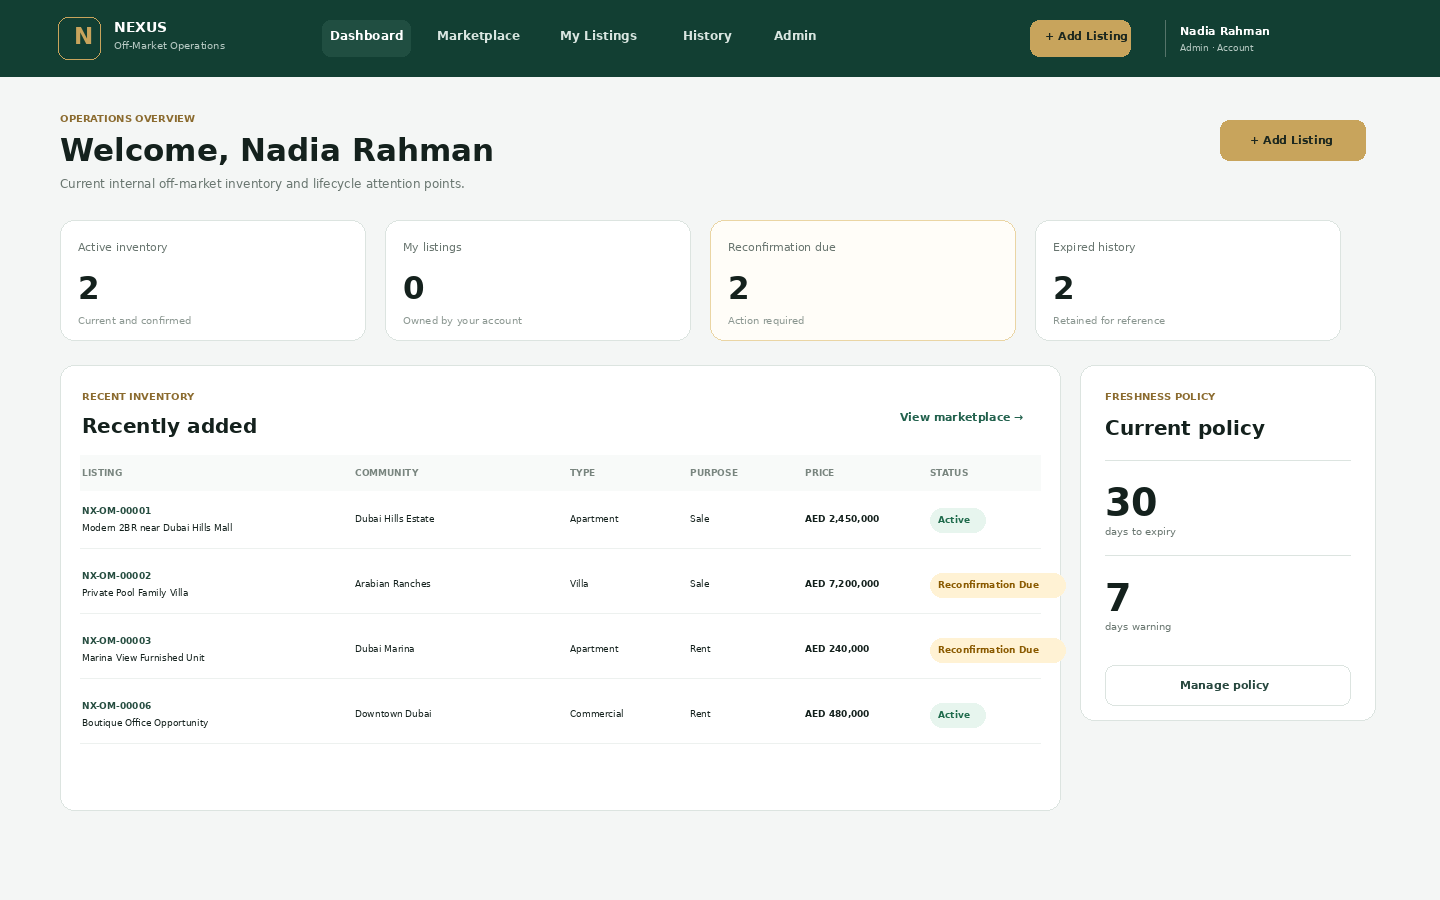
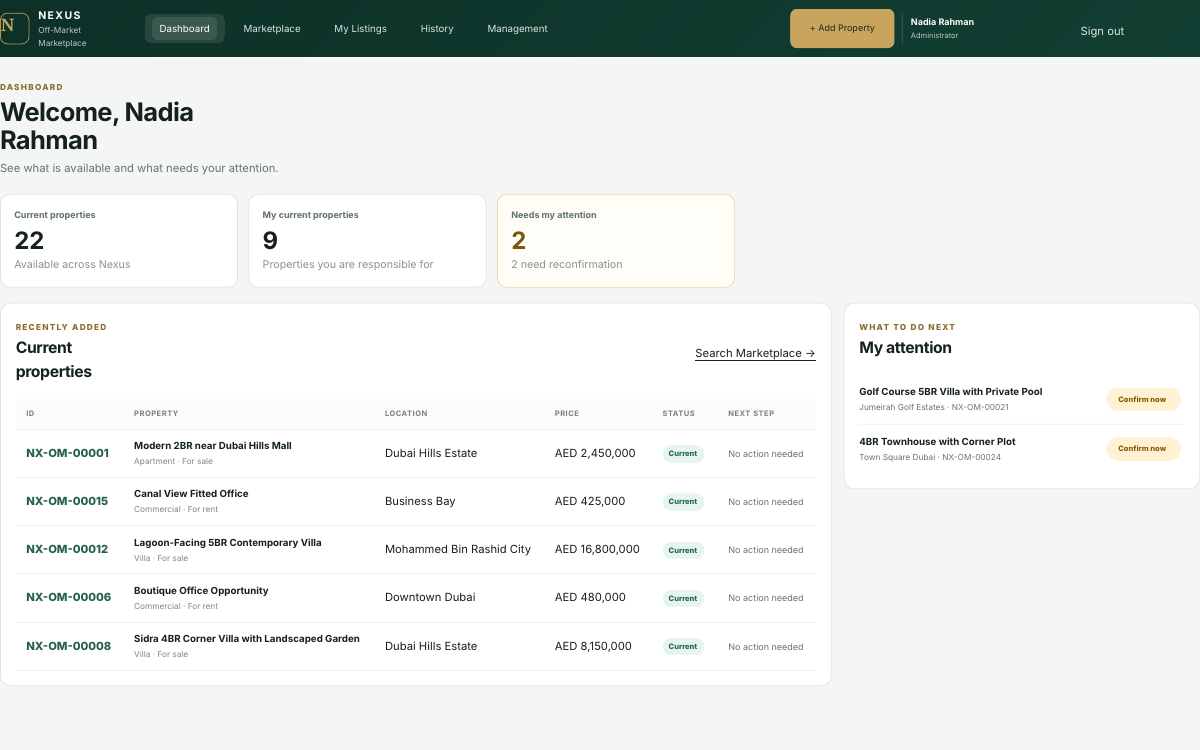
Present Nexus Properties as completed portfolio project

diff --git a/app/templates/projects/nexus_properties.html b/app/templates/projects/nexus_properties.html
@@ -7,11 +7,12 @@
       <p class="eyebrow">REAL ESTATE OPERATIONS SYSTEM</p>
       <h1>Nexus Properties</h1>
       <h2>Internal Off-Market Property Marketplace</h2>
-      <p class="page-lead">A custom web application concept for a real estate team to add, find, update, reconfirm, and manage private off-market property listings.</p>
+      <p class="page-lead">A completed custom web application that centralizes private off-market property inventory, search, listing ownership, freshness checks, reconfirmation, status history, and management controls.</p>
       <div class="case-meta">
-        <div><small>TYPE</small><strong>Portfolio case study</strong></div>
+        <div><small>TYPE</small><strong>Completed portfolio project</strong></div>
         <div><small>FOCUS</small><strong>Internal listing operations</strong></div>
         <div><small>BUILD</small><strong>Custom Flask web application</strong></div>
+        <div><small>ROLE</small><strong>Key Castro · Developer</strong></div>
       </div>
     </div>
     <button class="case-cover reveal delay-1" type="button" data-lightbox="{{ url_for('static', filename='images/projects/nexus-dashboard.png') }}" data-caption="Nexus Properties — dashboard preview">
@@ -22,7 +23,7 @@
 </section>
 
 <section class="case-note">
-  <div class="container reveal"><strong>Project note</strong><p>This is a portfolio implementation inspired by a public Nexus project brief. It is not presented as an official deployed Nexus system or as proof that Nexus approved this custom build.</p></div>
+  <div class="container reveal"><strong>Project note</strong><p>A completed custom real estate system developed by Key Castro as a portfolio implementation based on real-world property brokerage workflow requirements. It demonstrates the working system I built; it is not presented as an official Nexus deployment or as evidence that Nexus hired, paid, or approved this implementation.</p></div>
 </section>
 
 <nav class="case-jump" aria-label="Case study sections">
@@ -46,23 +47,23 @@
 <section class="section" id="solution">
   <div class="container case-section">
     <div class="section-kicker reveal">03 · SOLUTION</div>
-    <div class="case-copy reveal delay-1"><h2>One custom application for the listing lifecycle.</h2><p>The portfolio build brings access, listing records, marketplace search, status, reconfirmation, expiry, history, and administration into one web application.</p><div class="solution-flow"><span>Private access</span><b>→</b><span>Add listing</span><b>→</b><span>Search</span><b>→</b><span>Update / reconfirm</span><b>→</b><span>Expire / history</span></div></div>
+    <div class="case-copy reveal delay-1"><h2>One custom application for the listing lifecycle.</h2><p>The completed build brings private access, listing records, marketplace search, ownership controls, configurable freshness rules, reconfirmation, automatic expiry, history, and management tools into one web application.</p><div class="solution-flow"><span>Private access</span><b>→</b><span>Add listing</span><b>→</b><span>Search</span><b>→</b><span>Update / reconfirm</span><b>→</b><span>Expire / history</span></div></div>
   </div>
 </section>
 
 <section class="section section-soft" id="features">
   <div class="container">
-    <div class="section-head reveal"><div><p class="eyebrow">04 · MAIN FEATURES</p><h2>What the portfolio build demonstrates.</h2></div></div>
+    <div class="section-head reveal"><div><p class="eyebrow">04 · MAIN FEATURES</p><h2>What I built into the working system.</h2></div></div>
     <div class="feature-grid">
       {% for title, text in [
-        ('Private team access','Protected access for internal users.'),
-        ('Operations dashboard','A quick view of inventory and items that need attention.'),
-        ('Listing management','Create, view, and update structured property records.'),
-        ('Marketplace search','Search, filters, sorting, and current listing results.'),
-        ('Status tracking','Track the stage and condition of each listing.'),
-        ('Freshness rules','Reconfirmation and automatic expiry behavior.'),
-        ('History','Keep status and activity history instead of losing context.'),
-        ('Administration','Manage users and selected system settings in the portfolio build.')
+        ('Private team access','Secure access-code sign-in for internal users.'),
+        ('Operations dashboard','Current inventory, personal responsibility, and attention queues.'),
+        ('Listing management','Create, view, edit, and manage structured property records.'),
+        ('Marketplace search','Search, practical filters, sorting, and current inventory results.'),
+        ('Status tracking','Current, reconfirmation, expired, unavailable, and historical states.'),
+        ('Freshness rules','Configurable reconfirmation windows and automatic expiry.'),
+        ('History','Status, reconfirmation, and activity history are preserved.'),
+        ('Management','Authorized users can manage team access and freshness settings.')
       ] %}
       <article class="feature-card reveal delay-{{ loop.index0 % 3 }}"><span>{{ '%02d'|format(loop.index) }}</span><h3>{{ title }}</h3><p>{{ text }}</p></article>
       {% endfor %}
@@ -85,19 +86,19 @@
 
 <section class="section section-soft" id="screens">
   <div class="container">
-    <div class="section-head reveal"><div><p class="eyebrow">06 · SCREENS</p><h2>See the local portfolio build.</h2></div><p class="section-summary">Click a screen to view it larger.</p></div>
+    <div class="section-head reveal"><div><p class="eyebrow">06 · SCREENS</p><h2>Screens from the working Nexus build.</h2></div><p class="section-summary">Working interface shown with demonstration property records. Click a screen to view it larger.</p></div>
     <div class="gallery-grid">
-      <button class="gallery-item gallery-main reveal" type="button" data-lightbox="{{ url_for('static', filename='images/projects/nexus-dashboard.png') }}" data-caption="Dashboard — inventory and freshness overview"><img src="{{ url_for('static', filename='images/projects/nexus-dashboard.png') }}" alt="Nexus dashboard preview"><span>Dashboard</span></button>
-      <button class="gallery-item reveal delay-1" type="button" data-lightbox="{{ url_for('static', filename='images/projects/nexus-marketplace.png') }}" data-caption="Marketplace — search, filters, and current inventory"><img src="{{ url_for('static', filename='images/projects/nexus-marketplace.png') }}" alt="Nexus marketplace preview"><span>Marketplace</span></button>
-      <button class="gallery-item reveal delay-2" type="button" data-lightbox="{{ url_for('static', filename='images/projects/nexus-detail.png') }}" data-caption="Listing detail — record details and lifecycle history"><img src="{{ url_for('static', filename='images/projects/nexus-detail.png') }}" alt="Nexus listing detail preview"><span>Listing detail</span></button>
+      <button class="gallery-item gallery-main reveal" type="button" data-lightbox="{{ url_for('static', filename='images/projects/nexus-dashboard.png') }}" data-caption="Dashboard — current inventory and attention queue"><img src="{{ url_for('static', filename='images/projects/nexus-dashboard.png') }}" alt="Nexus dashboard preview"><span>Dashboard</span></button>
+      <button class="gallery-item reveal delay-1" type="button" data-lightbox="{{ url_for('static', filename='images/projects/nexus-marketplace.png') }}" data-caption="Marketplace — property search and current inventory"><img src="{{ url_for('static', filename='images/projects/nexus-marketplace.png') }}" alt="Nexus marketplace preview"><span>Marketplace</span></button>
+      <button class="gallery-item reveal delay-2" type="button" data-lightbox="{{ url_for('static', filename='images/projects/nexus-detail.png') }}" data-caption="Listing detail — property information and freshness lifecycle"><img src="{{ url_for('static', filename='images/projects/nexus-detail.png') }}" alt="Nexus listing detail preview"><span>Listing detail</span></button>
     </div>
   </div>
 </section>
 
 <section class="section" id="build">
   <div class="container case-section">
-    <div class="section-kicker reveal">07 · WHAT I BUILT</div>
-    <div class="case-copy reveal delay-1"><h2>A complete local custom web application.</h2><p>I built the application structure, access flow, dashboard, listing records, search, lifecycle actions, history, administration, testing, documentation, and Windows one-click local launcher.</p><div class="build-spec"><div><strong>Backend</strong><span>Python · Flask</span></div><div><strong>Data</strong><span>SQLAlchemy · SQLite</span></div><div><strong>Interface</strong><span>HTML · CSS · JavaScript</span></div><div><strong>Local workflow</strong><span>PowerShell launcher · health check · logs</span></div></div><div class="status-box"><small>PROJECT STATUS</small><strong>Working local portfolio implementation</strong><span>Not presented as an official Nexus production deployment.</span></div></div>
+    <div class="section-kicker reveal">07 · BUILD & TECHNOLOGY</div>
+    <div class="case-copy reveal delay-1"><h2>A complete working custom web application.</h2><p>I designed and built the application structure, secure access flow, database model, dashboard, property records, search experience, listing lifecycle, management controls, validation, testing, documentation, and one-click Windows launcher.</p><div class="build-spec"><div><strong>Backend</strong><span>Python · Flask · Flask-Login · Flask-WTF</span></div><div><strong>Data</strong><span>SQLAlchemy · SQLite · lifecycle history</span></div><div><strong>Interface</strong><span>HTML · CSS · JavaScript progressive enhancement</span></div><div><strong>Security</strong><span>Access-code hashing · CSRF protection · validation · authorization · security headers</span></div><div><strong>Local workflow</strong><span>PowerShell launcher · health check · logs · automated tests</span></div></div><div class="status-box"><small>PROJECT STATUS</small><strong>Completed working portfolio implementation</strong><span>Built and tested as a real custom system. Not presented as an official Nexus production deployment.</span></div></div>
   </div>
 </section>
 

diff --git a/app/templates/home.html b/app/templates/home.html
@@ -22,7 +22,7 @@
         <img src="{{ url_for('static', filename='images/projects/nexus-dashboard.png') }}" alt="Nexus Properties system dashboard preview">
       </div>
       <div class="hero-project-caption">
-        <div><small>FEATURED CASE STUDY</small><strong>Nexus Properties</strong><span>Internal Off-Market Property Marketplace</span></div>
+        <div><small>FEATURED COMPLETED PROJECT</small><strong>Nexus Properties</strong><span>Internal Off-Market Property Marketplace</span></div>
         <b aria-hidden="true">↗</b>
       </div>
     </a>
@@ -80,10 +80,10 @@
         <span>View larger</span>
       </button>
       <div class="featured-copy">
-        <div class="badge-row"><span>REAL ESTATE SYSTEM</span><span>PORTFOLIO CASE STUDY</span></div>
+        <div class="badge-row"><span>REAL ESTATE SYSTEM</span><span>COMPLETED PROJECT</span></div>
         <h3>Nexus Properties</h3>
         <p class="featured-subtitle">Internal Off-Market Property Marketplace</p>
-        <p>A custom system concept for an internal real estate team to add, search, update, reconfirm, and manage off-market property listings.</p>
+        <p>A completed custom web application for an internal real estate team to add, search, update, reconfirm, and manage off-market property inventory.</p>
         <ul class="clean-list">
           <li>Private team access</li>
           <li>Listing search and filters</li>

diff --git a/tests/test_site.py b/tests/test_site.py
@@ -16,7 +16,7 @@ class PortfolioSiteTests(unittest.TestCase):
         data = response.get_json()
         self.assertEqual(data["status"], "ok")
         self.assertEqual(data["app"], "Key Castro Portfolio")
-        self.assertEqual(data["version"], "2.0.0")
+        self.assertEqual(data["version"], "2.1.0")
 
     def test_main_pages_render(self):
         routes = ["/", "/about", "/services", "/projects", "/skills", "/experience", "/contact"]
@@ -26,11 +26,12 @@ class PortfolioSiteTests(unittest.TestCase):
                 self.assertEqual(response.status_code, 200)
                 self.assertIn(b"KEY CASTRO", response.data)
 
-    def test_nexus_case_study_has_clear_status_boundary(self):
+    def test_nexus_completed_project_has_clear_status_boundary(self):
         response = self.client.get("/projects/nexus-properties")
         self.assertEqual(response.status_code, 200)
         self.assertIn(b"Nexus Properties", response.data)
-        self.assertIn(b"not presented as an official deployed Nexus system", response.data)
+        self.assertIn(b"Completed working portfolio implementation", response.data)
+        self.assertIn(b"not presented as an official Nexus deployment", response.data)
 
     def test_unknown_project_uses_custom_404(self):
         response = self.client.get("/projects/not-real")

diff --git a/app/routes.py b/app/routes.py
@@ -30,10 +30,10 @@ PROJECTS = [
         "name": "Nexus Properties",
         "category": "Real Estate Operations System",
         "subtitle": "Internal Off-Market Property Marketplace",
-        "status": "Portfolio case study",
+        "status": "Completed project",
         "summary": (
-            "A private marketplace concept that helps a real estate team add, find, "
-            "update, reconfirm, and manage off-market property listings in one system."
+            "A completed custom internal marketplace for a real estate team to add, search, "
+            "update, reconfirm, and manage off-market property inventory in one system."
         ),
         "image": "images/projects/nexus-dashboard.png",
         "tags": ["Property listings", "Search & filters", "Status tracking", "Freshness rules"],
@@ -285,7 +285,7 @@ def health():
         status="ok",
         app=current_app.config.get("APP_NAME", "Key Castro Portfolio"),
         environment=current_app.config.get("ENVIRONMENT_LABEL", "unknown"),
-        version="2.0.0",
+        version="2.1.0",
     )
 
 

diff --git a/DELIVERY_REPORT.md b/DELIVERY_REPORT.md
@@ -1,43 +1,43 @@
-# KEY CASTRO WEBSITE — VERSION 2.0.0 DELIVERY REPORT
+# KEY CASTRO WEBSITE — VERSION 2.1.0 DELIVERY REPORT
 
 ## Release goal
 
-A complete public-launch redesign focused on clarity, trust, simple navigation, stronger project presentation, and a premium real-estate systems identity.
+Update the existing live portfolio so Nexus Properties is presented accurately as a **completed working portfolio project built by Key Castro**, while keeping a clear boundary that it is not an official Nexus production deployment or proof of a paid/approved client engagement.
 
-## Main changes
+## Nexus project update
 
-- Simplified top navigation to Work, Services, About, and Discuss a Project
-- Rebuilt homepage around a clear client-facing message and actual project proof
-- Replaced abstract technical language with shorter plain-English copy
-- Strengthened the Nexus Properties case study and screenshot presentation
-- Added click-to-enlarge project screenshots
-- Reworked Services, About, Skills, Experience, and Contact pages
-- Improved desktop, tablet, and mobile layout rules
-- Added stronger accessibility/focus states and reduced-motion support
-- Added page metadata, local no-index behavior, and `sitemap.xml`
-- Added production SMTP contact-form support through environment variables
-- Added production startup checks to prevent launch with missing public/contact configuration
-- Kept the Windows desktop launcher, health check, local port, logs, and one-click workflow compatible
+- Changed the public project status from concept/case-study wording to **Completed Project**.
+- Rewrote the homepage featured-work copy around the finished working system.
+- Expanded the Nexus case study with the business problem, actual working workflow, main features, technologies, security work, and Key Castro's developer role.
+- Added the current Nexus dashboard visual generated from the latest `1.4.2-clarity-refinement` source/UI and local project data.
+- Preserved honest relationship wording: completed development work, but no unsupported claim that Nexus hired, paid, approved, or deployed the implementation.
+- Updated portfolio/project documentation and automated assertions to the new positioning.
 
-## Preserved local behavior
+## Preserved website architecture
+
+No hosting or deployment architecture was changed:
 
 ```text
-Desktop icon
-→ hidden Flask server
-→ health check
-→ browser opens
-→ http://127.0.0.1:5050
+Official host: Render
+Official URL: https://keycastro.onrender.com
+Private source repo: keycastro/key-castro-website
+Public Render mirror: keycastro/key-castro-render-deploy
+Render auto-deploy: off
 ```
 
-The website remains a web application. The Desktop icon is only a local convenience launcher.
+The Windows local launcher, local port `5050`, contact form architecture, health endpoint, deployment workflow, and retired PythonAnywhere status remain unchanged.
 
-## Verification performed in the build environment
+## Verification performed in this build environment
 
-- Python source compilation
-- Jinja template parsing
-- JavaScript syntax check
-- Static asset reference checks
-- Responsive CSS/layout rule review for desktop, tablet, and mobile breakpoints
-- Update-package structure review
+- Inspected the supplied website handoff and current source before editing.
+- Inspected the supplied Nexus `1.4.2-clarity-refinement` source, templates, models, routes, services, SQLite schema/data shape, and documentation before writing public copy.
+- Python source compilation check.
+- Jinja template parse check.
+- JavaScript syntax check where runtime tooling is available.
+- Static asset reference and update-package review.
 
-The actual Windows PowerShell launcher/update execution must run on the user's Windows installation, where the existing `.venv`, Flask installation, and Desktop shortcut are available.
+Full Flask runtime tests could not be executed in this sandbox because the required Flask packages are not installed and external package download is unavailable. The supplied Windows installation already has its project-specific `.venv`; the update/deploy package runs the existing test suite there before committing or deploying.
+
+## Unfinished production item retained
+
+Gmail SMTP authentication/contact-form delivery remains **unverified** until valid production SMTP credentials are configured securely and a real delivery test succeeds.

diff --git a/README.md b/README.md
@@ -1,6 +1,9 @@
 # KEY CASTRO — Professional Website
 
-**Version:** 2.0.0 — Public Launch Edition  
+> **Developer handoff:** New maintainers should read [`NEXT_DEVELOPER_READ_THIS_FIRST.md`](NEXT_DEVELOPER_READ_THIS_FIRST.md), [`PROJECT_STATE.json`](PROJECT_STATE.json), and [`SECURITY_AND_SHARING_NOTES.md`](SECURITY_AND_SHARING_NOTES.md) before changing code, deployment, domains, or hosting.
+
+
+**Version:** 2.1.0 — Completed Nexus Portfolio Project Update  
 **Local URL:** `http://127.0.0.1:5050`  
 **Health endpoint:** `http://127.0.0.1:5050/system/health`
 
@@ -83,4 +86,4 @@ The deployable entry point is:
 wsgi:app
 ```
 
-Read `docs/DEPLOYMENT_NOTES.md` before publishing. Version 2.0.0 intentionally requires the public URL, trusted hosts, verified contact email, and production mail delivery to be configured before a Production start succeeds.
+Read `docs/DEPLOYMENT_NOTES.md` before publishing. Version 2.1.0 continues to require the public URL, trusted hosts, verified contact email, and production mail delivery to be configured before a Production start succeeds.

diff --git a/docs/CONTENT_AND_SCOPE.md b/docs/CONTENT_AND_SCOPE.md
@@ -32,7 +32,7 @@ It also does not invent clients, testimonials, employment history, certification
 
 ## Nexus project wording
 
-Nexus Properties is one portfolio case study. The custom Flask build is described as a portfolio implementation inspired by the publicly described business workflow. It is not presented as an official deployed Nexus production system and does not claim that Nexus approved the custom stack.
+Nexus Properties is one completed portfolio project. The custom Flask system is presented as completed working development by Key Castro based on real-world property-brokerage workflow requirements. It must not be presented as an official Nexus production deployment or as evidence that Nexus hired, paid, or approved the custom implementation.
 
 ## Future content
 

diff --git a/docs/DEPLOYMENT_NOTES.md b/docs/DEPLOYMENT_NOTES.md
@@ -1,6 +1,6 @@
 # Key Castro Website — Deployment Notes
 
-Version 2.0.0 is designed so the same Flask website can run locally on Windows now and later be deployed publicly.
+Version 2.1.0 is designed so the same Flask website can run locally on Windows now and later be deployed publicly.
 
 ## Local vs production
 
